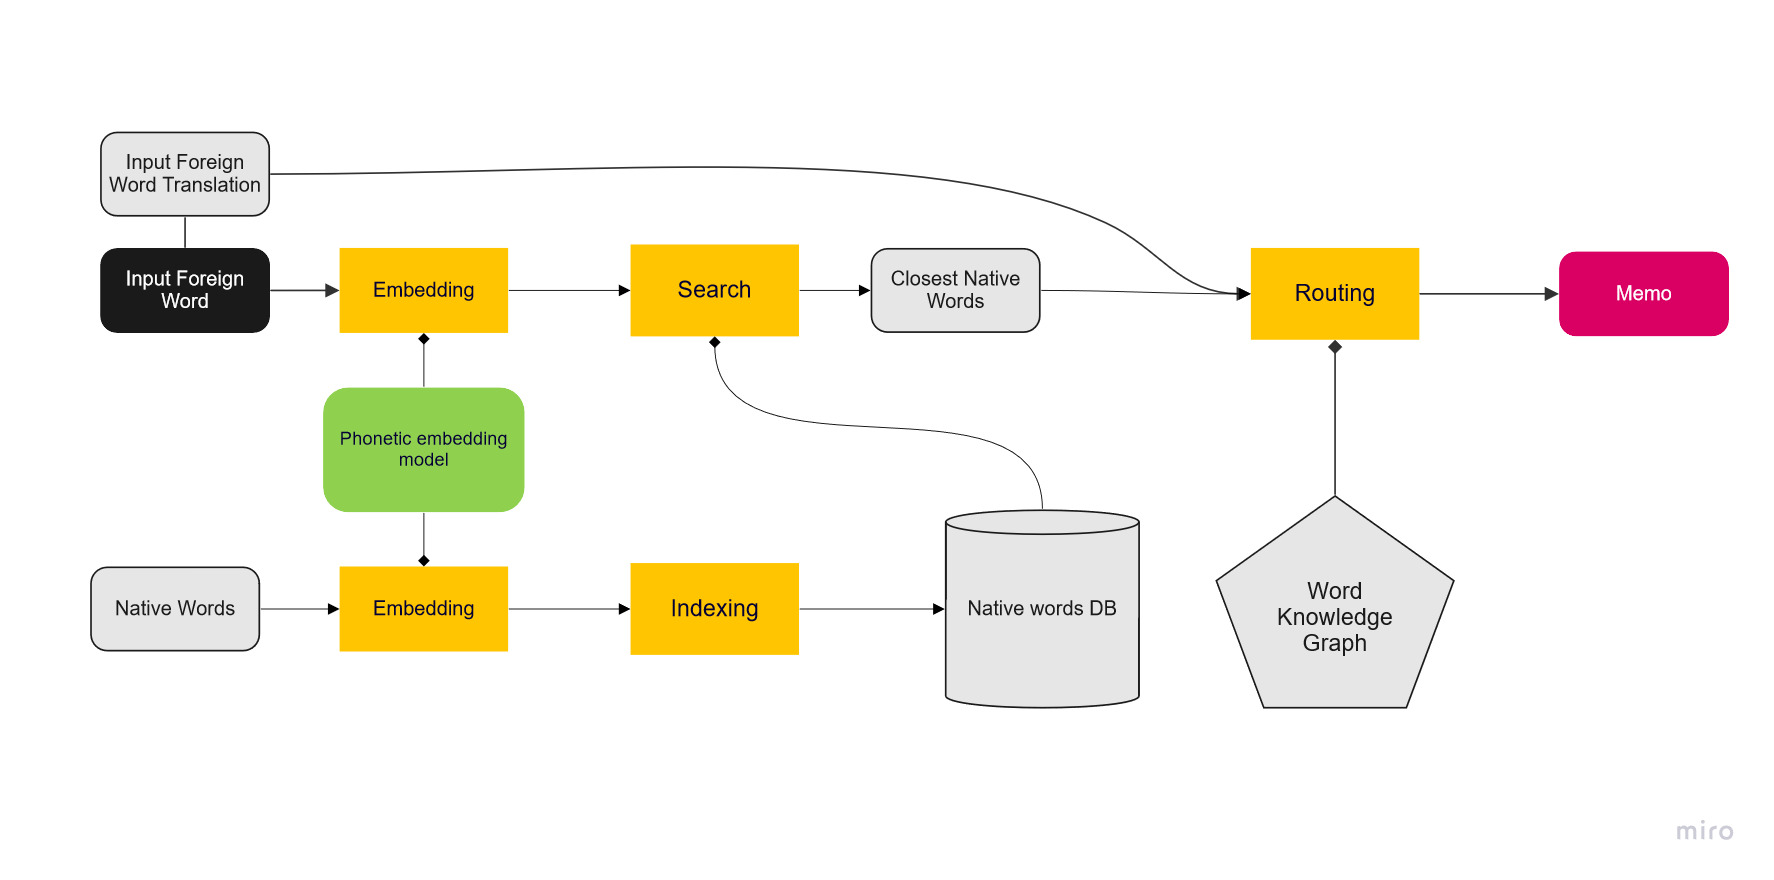
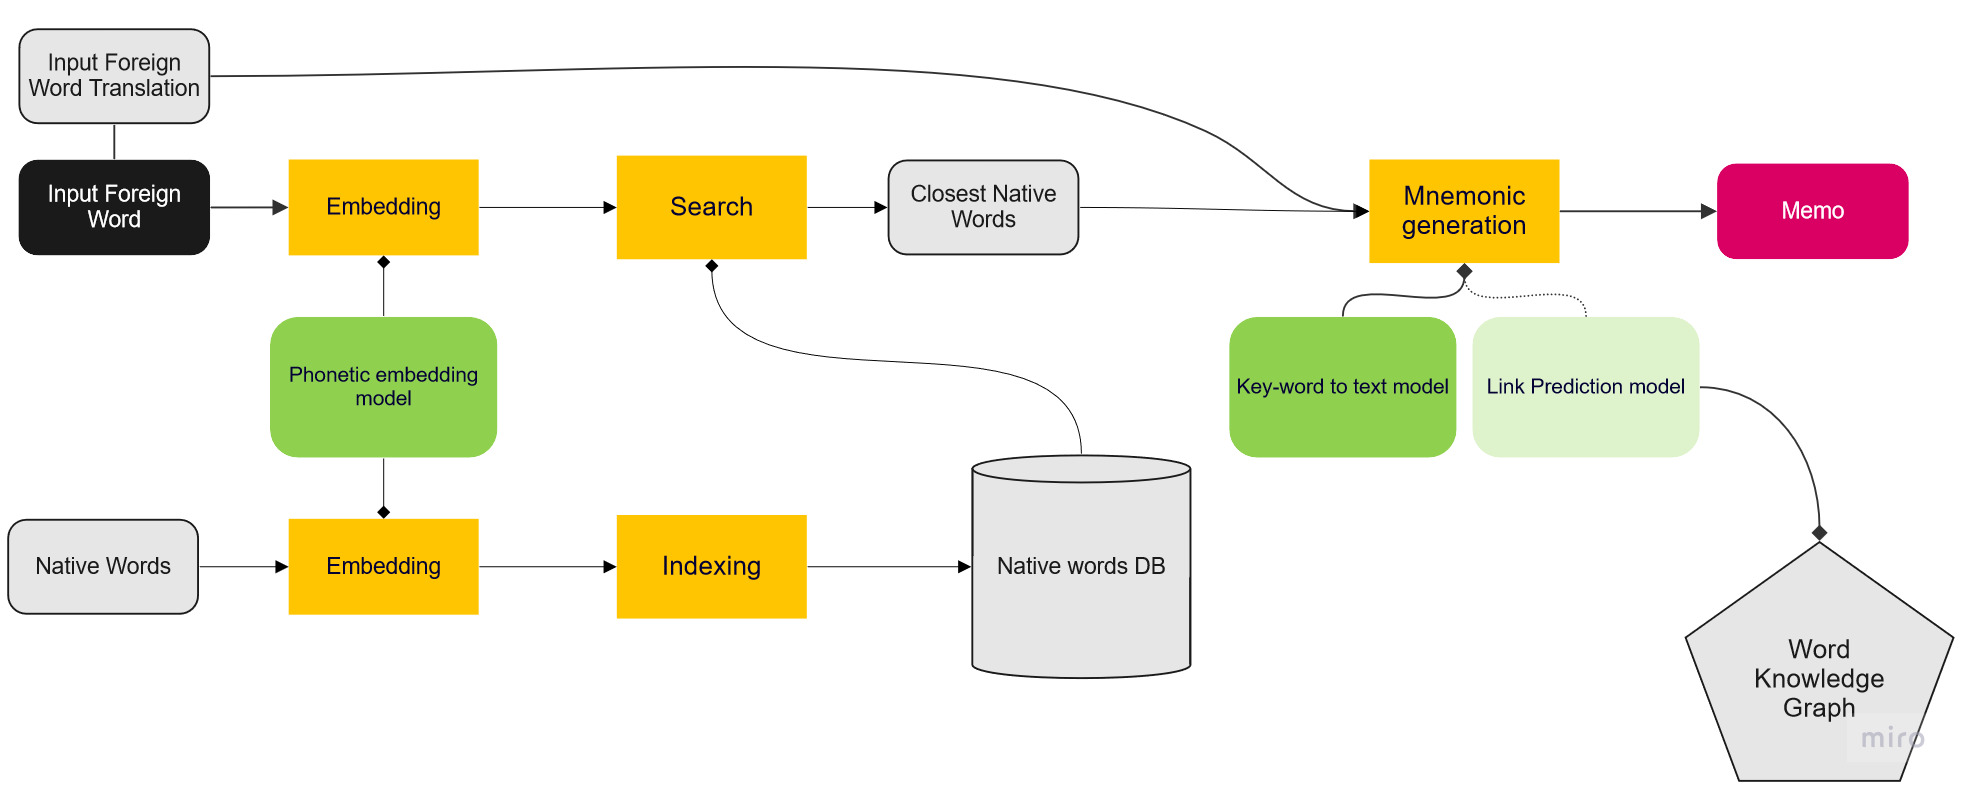
Updated README.

diff --git a/README.md b/README.md
@@ -1,71 +1,108 @@
-# Finding 🐠 Mnemo 
+<h1  align="center">Finding Mnemo</h1>
+<p align="center">
+<img src="imgs/mnemo.png" alt="FindingMnemo logo" width="150px">
+<br>
+<b>Less of a goldfish memory</b>
+</p>
 
-This repo contains a prototype for a mnemotechnic translation generator tool.
 
-For a given word you want to remember, finds the closest phonetic match to a known word and a link chain of ideas that allows to go from one to the other.
+This is a prototype for a mnemonic generator tool.
 
-__Example__: 
+__Objective__: 
+For a given word you would want to remember, finds the closest phonetic match in a predefined list of candidates. 
 
-The word `努力` is pronounced `nǔ lì`. It means `effort`. The closest sounding word found in our english vocabulary would be `newly`. We then want to create a chain or sentence that links both words such as: "*`Newly` selected players have to make an `effort` to compete with long established ones.*"
+It also tries to generate a key idea to help remember the pair (original word and matched word). 
+
+__Example__:
+- A sentence in which both words appear.  
+
+The word `努力` is pronounced `nǔ lì`. It means `effort`. The closest sounding word found in our English vocabulary would be `newly`. 
+
+We then want to create a sentence that links both words such as: "*It takes `effort` to settle in a `newly` discovered environment.*"
+
+- A chain of ideas to connect the two words
+
+The word `猫咪` is pronounced `māomī`. Meaning `cat`. The closest-sounding word found in our English vocabulary would be `mommy`. 
+
+We then want to create a chain that links both words such as: `cat` ⇔ `kitten` ⇔ `mother` ⇔ `mommy`.
  
-
 ![](imgs/flowchart.jpg)
 
 
 ## User Guide
 
-### Search Engine
+### Deployment
 
-The search engine represents the first component of this prototype.
-It gives access to the english words that sound the closest from an input mandarin word.
-
-#### Deployment
-
-You need to deploy the application in containers. 
-This app requires both a Database (Redis) and a backend (FastAPI).
-In order to deploy both, we would use the `docker-compose.yaml` file using the command:
+The easiest way to deploy every service is through containers. 
+This app requires both a Database (Redis), a backend (FastAPI) and a frontend (Streamlit).
+In order to deploy all of them, we would use the `docker-compose.yaml` file using the command:
 ```bash
 docker compose up 
 ```
 
-That should pop two docker containers, which you can check on the UI or using `docker ps`.
+That should pop three docker containers, which you can check on the UI or using `docker ps`.
 
 ![](imgs/container-screen.PNG)
 *Docker UI after using compose-up command*
 
+### Query
+
+Once the docker has been popped, you can use the UI to make all your queries, as demonstrated in the following screenshot:
+
+![](imgs/streamlit.PNG)
+*Streamlit UI used for finding a mnemonic for the word: 苹果 (apple)*
+
 ## Technical Documentation
 
-Three components are currently in development in this prototype:
-- __Pairing component__: Finding an english word sounding like a given mandarin word.
+Three components are currently in development for this prototype:
+- __Pairing component__: Finding an English word sounding like a given mandarin word.
 - __Keyphrase component__: Generates a sentence mixing both paired words: translation of the mandarin word and sound alike word.
 - __Chaining component__: Finds a chain of words connecting paired words.
 
 ### Pairing
 
-In order to find a word that sounds like another, we want to use [levenshtein's distance](https://en.wikipedia.org/wiki/Levenshtein_distance).
+To find a word that sounds like another, we want to use [levenshtein's distance](https://en.wikipedia.org/wiki/Levenshtein_distance) on the IPA spelling of words.
 
-However this distance, is very computation heavy and takes prohibitive time to run over a large number of words. 
+However, this distance is very computation heavy and takes prohibitive time to run over a large number of words. 
 
-Instead, we will learn a proxy model that produces an embedding space where distances are equivalent to levenshtein's distance.
+Instead, we will learn a proxy model that produces an embedding space where distances (tests have been performed on cosine distance and euclidean distance) are equivalent to levenshtein's distance.
 
-This way, we can rely on neural search techniques in order to pre-process all english words, and only have to process input words an match them efficiently. 
+This way, we can rely on neural search techniques to only have a single word to process at query time and to match it with already an already processed index of common words, very effectively. 
 
 #### Pairing model
 
 This model relies on a transformer architecture applied on [IPA characters](https://en.wikipedia.org/wiki/International_Phonetic_Alphabet). 
 
-We use it to encode words to the embedding space discussed above and then use [cosine similarity](https://en.wikipedia.org/wiki/Cosine_similarity) in order to evaluate the phonetic distance between them.
+We use it to encode words to the embedding space discussed above and then use [euclidean distance](https://en.wikipedia.org/wiki/Euclidean_distance) to evaluate the phonetic distance between them.
 
 ![](imgs/parallel_plot_pairing.PNG)
 *Parallel plot of model's performance in contrast with some hyperparameters*
 
 #### Dataset
 
-It is trained with Triplet Loss, on a dataset generated using the original levenshtein's distance (Weak supervision).
+It is trained with [Triplet Loss](https://pytorch.org/docs/stable/generated/torch.nn.TripletMarginLoss.html), on a dataset generated using the original levenshtein's distance (Weak supervision).
 
-Triplet loss works using a *margin* value, separating the anchor word and positive word from the negative word. We intent to use the knowledge of the exact distance to generate words that fit exactly or as close as possible from this margin (i.e. most relevant pairs of words).
+Triplet loss works using a *margin* value, separating the anchor word and positive word from the negative word. We intend to use the knowledge of the exact distance to generate words that fit exactly or as close as possible from this margin (i.e. most relevant pairs of words).
 
-### Key-chain
+### Search Engine
+
+The search engine module allows matching an embedding with a list of already indexed embeddings.
+
+It is a pretty simple `representation learning` application of [neural ranking](https://link.springer.com/article/10.1007/s10791-021-09398-0). 
+
+The module is developped using the [DocumentArray](https://github.com/docarray/docarray) framework from [JinaAI](https://jina.ai/), a specialist in neural searching.
+
+### Keyphrase
+
+The first and current approach to generate a key mnemonic idea and link the pair of previously matched words is to embed them in a single sentence.
+
+To do that, the [key-to-text](https://huggingface.co/gagan3012/k2t-base) model from HuggingFace has been tried.
+
+Although very far from ideal, this is the current method used in the application. Occasionally making sense, often giving absurd (but sometimes effective) results.
+
+[TODO]: Examples
+
+### [In Development] Key-chain
 
 In order to find a connection between two words, a first approach is to link them via a knowledge graph: find a path in that graph that links both of these words. 
 
@@ -88,22 +125,15 @@ A Graph Neural Network as well as a standard ML approach have been tried.
 
 However API calls still make the process very slow.
 
-
 #### Link prediction
 
-A lesser approach, but faster one is simply to start with a finite graph (e.g. a graph for all english words of our vocabulary) and simply find the word in the graph our input word is the closest from, and then compute the path in that graph to our final word instead of roaming Wikipedia to find the optimal path.
+A less effective approach, but faster one is simply to start with a finite graph (e.g. a graph for all english words of our vocabulary) and simply find the word in the graph our input word is the closest from, and then compute the path in that graph to our final word instead of roaming Wikipedia to find the optimal path.
 
 ![](imgs/link_prediction.jpg)
 *Finding path from "Elephant" to "China" through restricted Wikipedia knowledge graph*
 
 #### Link prediction model
 
-[TODO]
-
-### Keyphrase
-
-Instead of finding a chain of concepts in Wikipedia, we could try to generate key sentences to remember.
-
-In order to do that, a model from HuggingFace: [key-to-text](https://huggingface.co/gagan3012/k2t-base), has been tried, but seems very far from an acceptable result.
+🐠 In Progress 🐠
 
 
